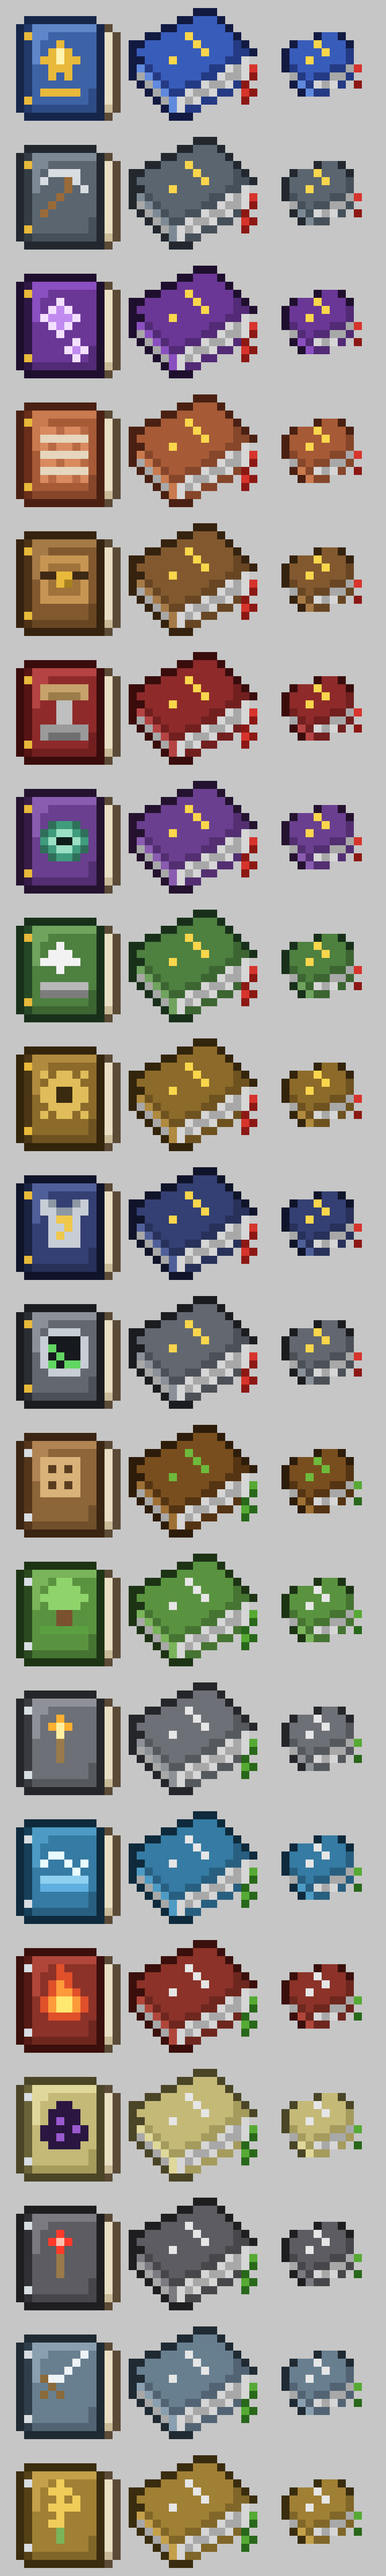
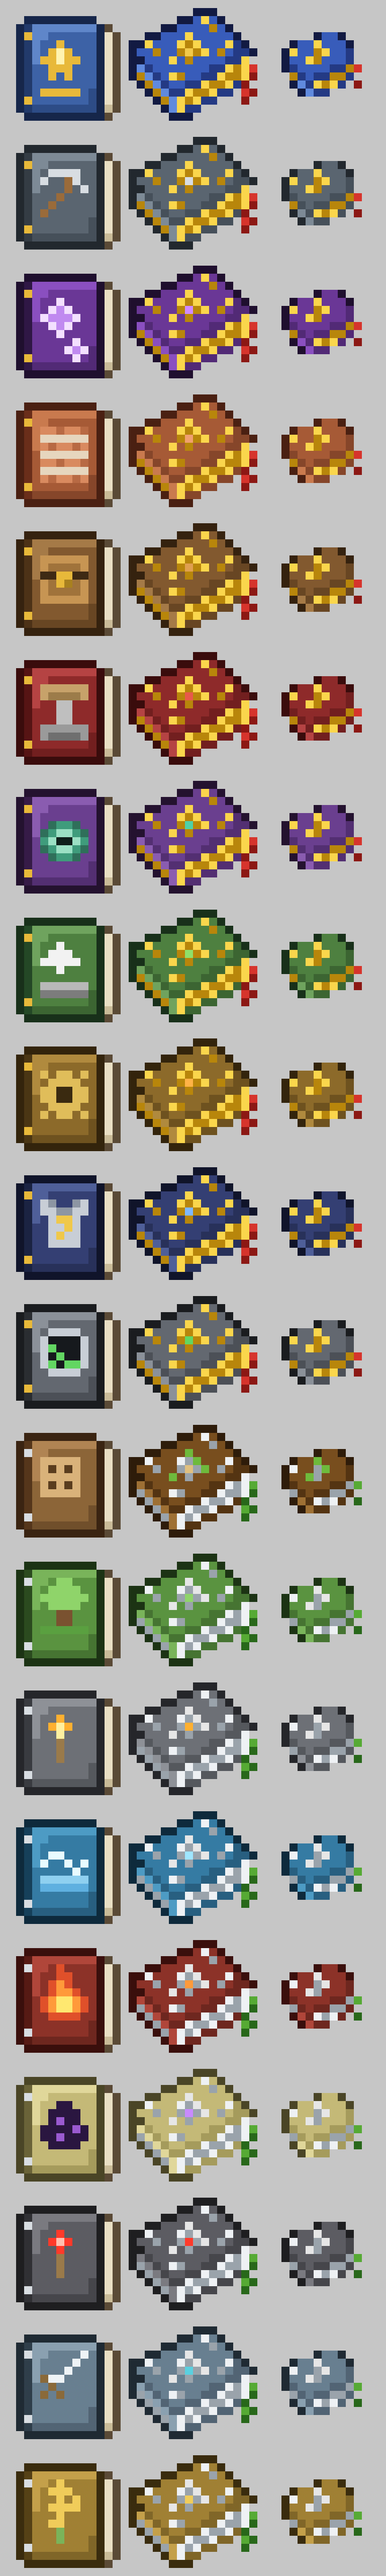
feat(textures): guide books get the owner's pick J "Prachtband" (26.3)
All 20 shelf guide covers in the 26.3 overlay: metal corner fittings, a topic
gem with a setting and gilt (mod) / silvered (vanilla) page edges. Drawn by
guide_book_textures.mega_guide_book (the source generate_textures.py checks);
the two former hand textures keep their colours via MEGA_HAND. Settled step
with before/after preview: tools/textures/guide_books_settled_2026_10_02.py.
Wiki assets regenerated.

diff --git a/tools/textures/guide_book_textures.py b/tools/textures/guide_book_textures.py
@@ -338,8 +338,11 @@ def guide_book_textures():
 # 26.3-Regale (Textur-Audit Q1, 2026-10-02): alle Themenbuecher in der Form der vom Besitzer abgenommenen
 # guide_book.png / guide_book_vanilla_start.png (liegendes Buch wie Vanilla, 1 px dunkle Kontur, Licht von oben
 # links). O Kontur, D/C/L Deckel dunkel/mittel/hell (aus COVERS), A Buende auf dem Ruecken, P/p Seiten,
-# R/r Lesezeichen hell/dunkel. Die beiden abgenommenen Bilder sind Handarbeit und werden nie ueberschrieben.
-MEGA_APPROVED = {"guide", "vanilla_start"}
+# R/r Lesezeichen hell/dunkel.
+# Besitzerwahl 2026-10-02 abends: Vorschlag J "Prachtband" (guide_books_10_proposals_2026_10_02.py) fuer ALLE
+# Buecher: Metallecken (B), Edelstein in der Themenfarbe mit Fassung (E), Gold-/Silberschnitt (I). Die beiden
+# frueher von Hand abgenommenen Bilder haben exakt diese Form; ihre Farben stehen in MEGA_HAND und werden mit
+# demselben Prachtband gezeichnet.
 MEGA_BOOK = [
     "................",
     "........OOO.....",
@@ -361,22 +364,59 @@ MEGA_BOOK = [
 MEGA_PAGES = {"p": "#a8a8a8", "P": "#d6d6d6"}
 MEGA_MOD = {"A": "#fad64c", "r": "#8c1814", "R": "#d6342c"}  # wie guide_book.png: Goldbuende, rotes Band
 MEGA_VANILLA = {"A": "#e6e6e6", "r": "#28681a", "R": "#56aa34"}  # Silberbuende, gruenes Band wie vanilla_start
+# Farben der Handtexturen (Besitzer, abgenommen 2026-10-02), Form = MEGA_BOOK
+MEGA_HAND = {
+    "guide": dict(O="#121a42", C="#385cba", A="#fad64c", D="#243a84", P="#d6d6d6", L="#608ade", p="#a8a8a8", R="#d6342c", r="#8c1814"),
+    "vanilla_start": dict(O="#2e1c0a", C="#784e1e", A="#6eba3c", D="#543412", P="#d6d6d6", L="#9e7034", p="#a8a8a8", R="#56aa34", r="#28681a"),
+}
+# Prachtband J: Metall hell/dunkel je Regal, Edelstein je Thema
+MEGA_GOLD = ("#fad64c", "#b8860b")
+MEGA_SILVER = ("#eef1f4", "#9aa3ab")
+MEGA_GEM = {
+    "guide": "#f2c94a", "tools": "#d8dde2", "building": "#f0a070", "storage": "#e0a050", "machines": "#e85a4a",
+    "end": "#4fd1a8", "tweaks": "#8fe06a", "trims": "#7fb8ff", "admin": "#62d662", "gadgets": "#ffb347",
+    "enchantments": "#d08aff", "vanilla_start": "#e0c080", "vanilla_overworld": "#8fd46a", "vanilla_caves": "#ffb030",
+    "vanilla_ocean": "#9fe6ff", "vanilla_nether": "#ff9a3a", "vanilla_end": "#c88aff", "vanilla_redstone": "#ff3a2a",
+    "vanilla_gear": "#5ad0e0", "vanilla_farming": "#f0cc5a",
+}
+MEGA_CORNERS = [(9, 2), (2, 5), (12, 5), (5, 9)]
+MEGA_CORNERS_LO = [(10, 3), (3, 6), (11, 6), (6, 9)]
+MEGA_GEM_POS = (7, 6)
 
 
 def mega_guide_book(topic):
-    o, s, l, c, d = COVERS[topic]
-    pal = dict(O=o, D=d, C=c, L=l, **MEGA_PAGES)
-    pal.update(MEGA_VANILLA if topic.startswith("vanilla_") else MEGA_MOD)
+    if topic in MEGA_HAND:
+        pal = dict(MEGA_HAND[topic])
+    else:
+        o, s, l, c, d = COVERS[topic]
+        pal = dict(O=o, D=d, C=c, L=l, **MEGA_PAGES)
+        pal.update(MEGA_VANILLA if topic.startswith("vanilla_") else MEGA_MOD)
+    hi, lo = MEGA_SILVER if topic.startswith("vanilla_") else MEGA_GOLD
+    pal["P"], pal["p"] = hi, lo  # I: Gold-/Silberschnitt
     img = Image.new("RGBA", (16, 16), (0, 0, 0, 0))
     for y, row in enumerate(MEGA_BOOK):
         for x, ch in enumerate(row):
             if ch != ".":
                 img.putpixel((x, y), _hex(pal[ch]))
+
+    def cover(x, y, colour):  # nur auf dem Deckel, nie auf Kontur oder Seiten
+        if MEGA_BOOK[y][x] in "CDLA":
+            img.putpixel((x, y), _hex(colour))
+
+    for x, y in MEGA_CORNERS:  # B: Beschlaege
+        cover(x, y, hi)
+    for x, y in MEGA_CORNERS_LO:
+        cover(x, y, lo)
+    gx, gy = MEGA_GEM_POS  # E: Edelstein mit Fassung
+    for x, y in [(gx, gy - 1), (gx - 1, gy), (gx + 1, gy), (gx, gy + 1)]:
+        cover(x, y, lo)
+    cover(gx, gy, MEGA_GEM[topic])
+    cover(gx - 1, gy - 1, hi)
     return img
 
 
 def mega_guide_textures(check=False):
-    """26.3-only shelf-guide covers (mc26_3 overlay) with a 16x old/new preview."""
+    """26.3-only shelf-guide covers (mc26_3 overlay), Prachtband J, with a 16x old/new preview."""
     from pathlib import Path
     root = Path(__file__).resolve().parents[2]
     target = root / "mc26_3/overlay/resources/assets/simplebuilding/textures/item"
@@ -386,15 +426,12 @@ def mega_guide_textures(check=False):
     for i, topic in enumerate(ORDER):
         name = "guide_book.png" if topic == "guide" else f"guide_book_{topic}.png"
         path = target / name
-        if topic in MEGA_APPROVED:
-            img = Image.open(path).convert("RGBA")
+        img = mega_guide_book(topic)
+        if check:
+            if not path.exists() or Image.open(path).convert("RGBA").tobytes() != img.tobytes():
+                failures.append(name)
         else:
-            img = mega_guide_book(topic)
-            if check:
-                if not path.exists() or Image.open(path).convert("RGBA").tobytes() != img.tobytes():
-                    failures.append(name)
-            else:
-                img.save(path)
+            img.save(path)
         sheet.alpha_composite(guide_book(topic).resize((256, 256), Image.Resampling.NEAREST), (0, i * 256))
         sheet.alpha_composite(img.resize((256, 256), Image.Resampling.NEAREST), (256, i * 256))
         insert = img.resize((10, 10), Image.Resampling.NEAREST)
@@ -405,7 +442,7 @@ def mega_guide_textures(check=False):
         preview = root / "docs/previews/mega-guides-16x.png"
         preview.parent.mkdir(parents=True, exist_ok=True)
         sheet.save(preview)
-    print(f"Mega guides: {len(ORDER) - len(MEGA_APPROVED)} generated + {len(MEGA_APPROVED)} approved hand textures")
+    print(f"Mega guides: {len(ORDER)} Prachtband covers")
 
 
 if __name__ == "__main__":

diff --git a/tools/textures/guide_books_settled_2026_10_02.py b/tools/textures/guide_books_settled_2026_10_02.py
@@ -1,0 +1,62 @@
+"""Besitzerwahl 2026-10-02 abends: Handbuch-Texturen Vorschlag J "Prachtband" fuer alle 20 Buecher (26.3-Overlay).
+
+Die Zeichnung selbst steht in guide_book_textures.mega_guide_book (dieselbe Quelle, die generate_textures.py
+schreibt und mit --check prueft). Dieser Schritt schreibt die Texturen und eine Vorher/Nachher-Vorschau;
+"vorher" kommt aus `git show <rev>:<pfad>` (Standard `be4176b4`, der letzte Stand vor dem Einbau).
+
+Aufruf (Pillow): python tools/textures/guide_books_settled_2026_10_02.py [vorschau.png] [--rev REV]
+"""
+import io
+import subprocess
+import sys
+from pathlib import Path
+
+from PIL import Image, ImageDraw
+
+HERE = Path(__file__).resolve().parent
+ROOT = HERE.parents[1]
+sys.path.insert(0, str(HERE))
+from guide_book_textures import ORDER, mega_guide_book, mega_guide_textures  # noqa: E402
+
+ITEM = "mc26_3/overlay/resources/assets/simplebuilding/textures/item/"
+
+
+def old_image(name, rev):
+    data = subprocess.run(["git", "show", f"{rev}:{ITEM}{name}"], cwd=ROOT, capture_output=True, check=True).stdout
+    return Image.open(io.BytesIO(data)).convert("RGBA")
+
+
+def main():
+    args = [a for a in sys.argv[1:]]
+    rev = "be4176b4"
+    if "--rev" in args:
+        i = args.index("--rev")
+        rev = args[i + 1]
+        del args[i:i + 2]
+    out = Path(args[0] if args else "C:/Users/o_o/code/minecraft-mods/previews/guide-buecher-J-eingebaut.png")
+    mega_guide_textures(check=False)
+
+    scale, cell, label_w, head = 8, 136, 170, 26
+    # two topics per row: [label | vorher | nachher] x 2
+    sheet = Image.new("RGBA", (2 * (label_w + 2 * cell) + 16, head + (len(ORDER) + 1) // 2 * cell + 8), (198, 198, 198, 255))
+    d = ImageDraw.Draw(sheet)
+    for half in range(2):
+        x0 = half * (label_w + 2 * cell + 8)
+        d.text((x0 + label_w + 8, 6), "vorher", fill=(30, 30, 30, 255))
+        d.text((x0 + label_w + cell + 8, 6), "nachher (J)", fill=(30, 30, 30, 255))
+    for i, topic in enumerate(ORDER):
+        name = "guide_book.png" if topic == "guide" else f"guide_book_{topic}.png"
+        x0 = (i % 2) * (label_w + 2 * cell + 8)
+        y = head + (i // 2) * cell
+        d.text((x0 + 8, y + cell // 2 - 6), topic, fill=(20, 20, 20, 255))
+        before = old_image(name, rev)
+        after = mega_guide_book(topic)
+        sheet.alpha_composite(before.resize((16 * scale, 16 * scale), Image.Resampling.NEAREST), (x0 + label_w + 4, y + 4))
+        sheet.alpha_composite(after.resize((16 * scale, 16 * scale), Image.Resampling.NEAREST), (x0 + label_w + cell + 4, y + 4))
+    out.parent.mkdir(parents=True, exist_ok=True)
+    sheet.save(out)
+    print("Vorschau:", out)
+
+
+if __name__ == "__main__":
+    main()

diff --git a/.claude/QUEUE.md b/.claude/QUEUE.md
@@ -153,7 +153,7 @@ Ein erledigter Codepunkt ersetzt weder Client-Gate noch Besitzer-Abnahme.
 - [ ] Das Rezept des Flypads wird auch nicht angezeigt. Höhe je Stufe = Breite der Grundfläche × 2.
 - [ ] Shulkerkopf: Das 3D-Modell ist nur im Inventar zu groß und wird abgeschnitten (Screenshot).
 - [ ] Silberfischkopf viel kleiner: im Inventar, auf dem Kopf und abgestellt.
-- [ ] Guide-Buch-Texturen überarbeiten (10 Vorschläge). Vorschau: previews/guide-buecher-10-vorschau.png (A–J), Besitzer wählt.
+- [x] Guide-Buch-Texturen überarbeiten (10 Vorschläge). Besitzer wählte J (Prachtband), eingebaut auf 26.3 (claude-guideui), Vorschau previews/guide-buecher-J-eingebaut.png.
 - [ ] Simple Money: 10 Textur-Vorschläge für Special Fiber, 10 für Resin Fiber.
 - [ ] Simple Money: Schmelzzeiten der Geld-Teile erhöhen, damit es in SimpleBuilding-Welten balanciert ist.
 - [ ] Zusätzlicher Weg zu Diamant-Kieseln (In-World): Fällt ein Amboss auf einen Diamantblock, entstehen Diamant-Kiesel.
